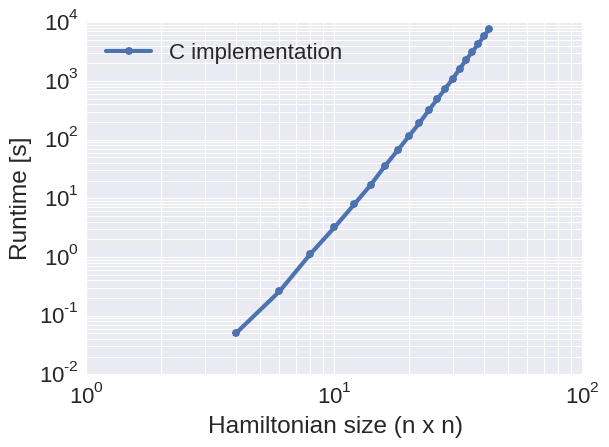
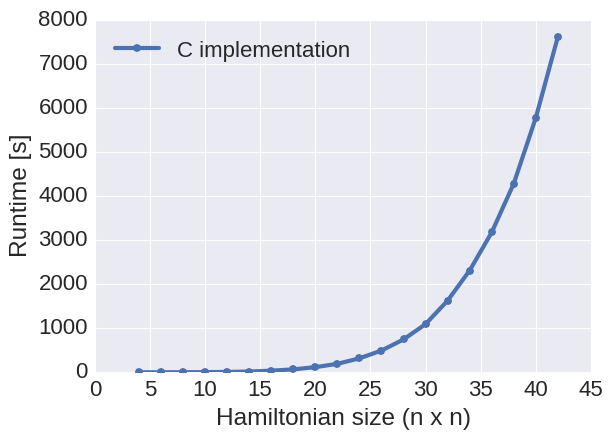
Explained SIMT in more detail

diff --git a/RedfieldPropagation_OpenACC/plot_C_runtime.py b/RedfieldPropagation_OpenACC/plot_C_runtime.py
@@ -33,8 +33,8 @@ print 'serial', np.polyfit(np.log(x), np.log(y1), 1)
 for index in range(1, 2):
 	plt.plot(values[:, 0], values[:, index], marker = 'o', label = labels[index - 1])
 plt.legend(loc = 'best')
-plt.xscale('log')
-plt.yscale('log')
+#plt.xscale('log')
+#plt.yscale('log')
 plt.ylabel('Runtime [s]')
 plt.xlabel('Hamiltonian size (n x n)')
 plt.savefig('runtimes_C.png', bbox_inches = 'tight')

diff --git a/README.md b/README.md
@@ -65,14 +65,14 @@ To better understand the secular Redfield approximation for propagating excitoni
 
 
 <center>
-<img src="files/python_population_euler.png" width="200"><img src="files/runtimes_loglog.png" width="200">
+<img src="files/python_population_euler.png" width="400">
 </center>
 
 **Figure:** Population dynamics in Python with Euler integration (1 fs time step) for four excitonic sites (1 to 4), a loss state (0) and a target state (5). The sum of the population over all states is plotted as a reference (total) and remains constant during the simulation, in agreement with properties of the underlying differential equation. The excited state is quickly distributed among the four sites and then slowly decays into loss and target states. The long term behavior matches the physical expectation of thermalized excited states.
 
 
 <center>
-<img src="files/runtimes.png" width="200"><img src="files/runtimes_loglog.png" width="200">
+<img src="files/runtimes.png" width="400"><img src="files/runtimes_loglog.png" width="400">
 </center>
 
 **Figure:** Runtimes of two naive Python implementations. Excitonic systems of size (n x n) were propagated for 10 integration steps with a simple Euler integration. Scalings of both, a naive Python implementation and a vectorized Python implementation, are as expected. 
@@ -92,7 +92,7 @@ In addition, we encountered one major problem with the Euler integration scheme.
 
 
 <center>
-<img src="files/python_population_euler_going_wrong.png" width="200"><img src="files/runtimes_loglog.png" width="200">
+<img src="files/python_population_euler_going_wrong.png" width="400">
 </center>
 
 **Figure:** Population dynamics in Python with Euler integration (1 fs time step) for four excitonic sites (1 to 4), a loss state (0) and a target state (5) as before, except for zero couplings to the environment. Clearly the Euler integrator cannot maintain physically reasonable population numbers between 0 and 1, which indicates that more sophisticated integration schemes need to be employed for accurate time evolution.
@@ -140,9 +140,38 @@ However, due to the inaccurate Euler integration we were also forced to go to a 
 
 Encouraged by the speed up we already observed by translating the code from Python to C we wanted to make use of the computational power of GPUs and speed up the code even further by parallelizing the propagation step, in particular the highly demanding computation of the Lindblad operator term in the Redfield equation. 
 
-We observed the largest speed up when parallizing matrix operations between the density matrix and the transition matrices on the warp and thread level and distributing one of the loops for computing these terms on the thread block level. With this computation scheme we were forced to allocate N copies of the transition matrices to avoid race conditions between thread blocks. 
+We used OpenACC to apply the SIMT execution model on our already implemented C code and compute the time evolution of excitonic systems under the Redfield approximation on GPUs. All results shown for the SIMT OpenACC implementation were obtained on a NVIDIA Tesla K80 GPU. 
 
-With this implementation we achieved the run times and speed ups shown below. Times were measured for 10 iterations of the 4th order Runge Kutta integration scheme. Calculations were run on a NVIDIA Tesla K80 GPU. 
+Communication between the CPU and the GPU was minimized by copying all variables to the GPU before starting the integration protocol. Only the updated density matrix was copied back to the CPU after every integration step. All other quantities were left on the GPU for the duration of the computation. 
+
+To use the computational capabilities of the GPU efficiently we added parallelization directives to all occurring loops in the algorithm. Matrix operations were blocked to make use of the fast memory of the GPU. The blocked instructions for computing the commutator are shown below.
+
+```
+#pragma acc kernels present(hamiltonian[0:N]) present(comm_real[0:N][0:N], comm_imag[0:N][0:N]) present(rho_real[0:N][0:N], rho_imag[0:N][0:N])
+#pragma acc loop independent collapse(2)
+for (ii = 0; ii < N; ii += BLOCK_SIZE)
+    for(jj = 0; jj < N; jj += BLOCK_SIZE) {
+        #pragma acc loop independent collapse(2)
+        for (i = 0; i < BLOCK_SIZE; i++) {
+	        for (j = 0; j < BLOCK_SIZE; j++) {
+	            index = ii + i;
+	            jndex = jj + j;
+	            if (index < N && jndex < N) {
+	                comm_real[index][jndex] = (hamiltonian[jndex] - hamiltonian[index]) * rho_imag[index][jndex] * HBAR_INV;
+	                comm_imag[index][jndex] = (hamiltonian[index] - hamiltonian[jndex]) * rho_real[index][jndex] * HBAR_INV;
+	            }
+	        }
+        }
+    }
+}
+```
+
+Significant speed up could be generated by parallelizing parts of the summation in the Lindblad operator. With size nested for loops in total, three stated explicitly in the sum and another three for matrix operations in the summation term, this term exceeds the number of available levels of parallelization. With moderately large matrices in our problem (between 10 and 100 elements per row) we decided to split the Lindblad term as 
+<a href="https://www.codecogs.com/eqnedit.php?latex=\sum\limits_{m,M}&space;\sum\limits_{N}&space;\gamma(\omega_{MN})&space;\left(&space;V_m(\omega_{MN})&space;\rho(t)&space;V^\dagger_m(\omega_{MN})&space;-&space;\frac{1}{2}&space;V_m^\dagger(\omega_{MN})&space;V_m(\omega_{MN})&space;\rho(t)&space;-&space;\frac{1}{2}&space;\rho(t)&space;V^\dagger_m(\omega_{MN})&space;V_m(\omega_{MN})&space;\right&space;)" target="_blank"><img src="https://latex.codecogs.com/gif.latex?\sum\limits_{m,M}&space;\sum\limits_{N}&space;\gamma(\omega_{MN})&space;\left(&space;V_m(\omega_{MN})&space;\rho(t)&space;V^\dagger_m(\omega_{MN})&space;-&space;\frac{1}{2}&space;V_m^\dagger(\omega_{MN})&space;V_m(\omega_{MN})&space;\rho(t)&space;-&space;\frac{1}{2}&space;\rho(t)&space;V^\dagger_m(\omega_{MN})&space;V_m(\omega_{MN})&space;\right&space;)" title="\sum\limits_{m,M} \sum\limits_{N} \gamma(\omega_{MN}) \left( V_m(\omega_{MN}) \rho(t) V^\dagger_m(\omega_{MN}) - \frac{1}{2} V_m^\dagger(\omega_{MN}) V_m(\omega_{MN}) \rho(t) - \frac{1}{2} \rho(t) V^\dagger_m(\omega_{MN}) V_m(\omega_{MN}) \right )" /></a>
+and parallelize the summation over $N$ on the gang (thread block) level and the summation term on the worker and vector level. With block size of 8 we used a total of 64 vectors and 16 workers per thread block and as many thread blocks as sites in the excitonic system. Race conditions were avoided by explicitly creating $N$ copies of the transition matrices as well as all matrices which store intermediate results of the Lindblad operator computation. 
+
+
+We observe a significant improvement of runtimes with this parallelization scheme over the serial implementation of the code. 
 
 <center>
 <img src="Graphics/benchmark.png" width="400">
